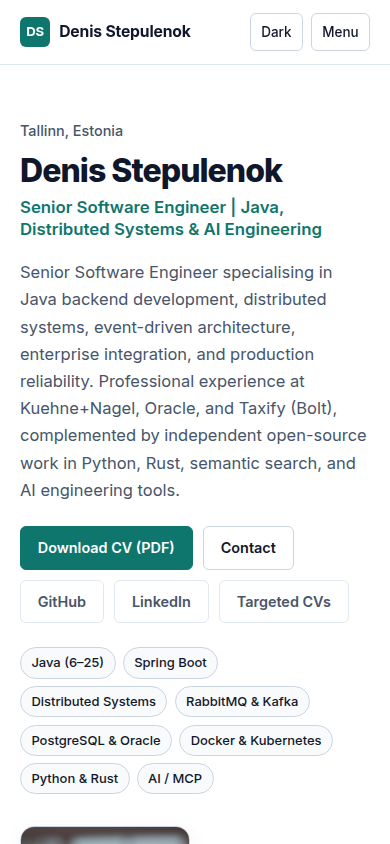
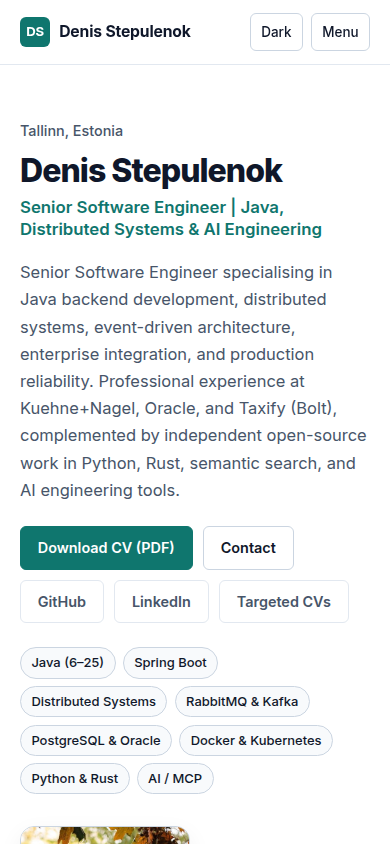
Update profile photo

Changed region(s): [[0.0308, 0.955, 0.4923, 1.0]]

diff --git a/index.html b/index.html
@@ -84,7 +84,7 @@
       </ul>
     </div>
     <div class="hero-photo-wrap">
-      <img class="hero-photo" src="assets/images/photo.jpg" alt="Portrait of Denis Stepulenok, Senior Software Engineer" width="363" height="480" decoding="async">
+      <img class="hero-photo" src="assets/images/photo.jpg" alt="Portrait of Denis Stepulenok, Senior Software Engineer" width="640" height="640" decoding="async">
     </div>
   </div>
 </section>
